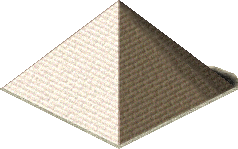
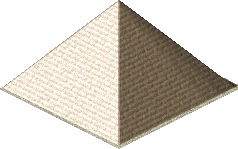
fix-test1 (#33)
* Update Android project files

* Android: try and fix apk

Also, do not include SDL2 project if using SDL3

* Minor asset tweak

* Fix the root cause of the android installer failing

* [New option] Wandering dogs (#1771)

---------

Pull request: fix-test1

Changed region(s): [[0.8529, 0.4295, 1.0, 0.5906], [0.8529, 0.5101, 0.8824, 0.5369], [0.5882, 0.1342, 0.6176, 0.1611]]

diff --git a/src/building/figure.c b/src/building/figure.c
@@ -37,8 +37,6 @@
 #include "map/water.h"
 #include "scenario/scenario.h"
 
-
-
 #define BEGGAR_UNEMPLOYMENT_THRESHOLD 6
 
 static struct {
@@ -222,21 +220,46 @@ static void spawn_plebian(building *b)
     }
 }
 
-static int spawn_patrician(building *b, int spawned)
+static void spawn_patrician(building *b)
 {
     map_point road;
     if (map_has_road_access(b->x, b->y, b->size, &road)) {
         b->figure_spawn_delay++;
-        if (b->figure_spawn_delay > 40 && !spawned) {
+        if (b->figure_spawn_delay > 16) {
             b->figure_spawn_delay = 0;
             figure *f = figure_create(FIGURE_PATRICIAN, road.x, road.y, DIR_4_BOTTOM);
             f->action_state = FIGURE_ACTION_125_ROAMING;
             f->building_id = b->id;
             figure_movement_init_roaming(f);
-            return 1;
         }
     }
-    return spawned;
+}
+
+static void spawn_dog(building *b)
+{
+    map_point road;
+    if (map_has_road_access(b->x, b->y, b->size, &road)) {
+        b->figure_spawn_delay++;
+        if (b->figure_spawn_delay > 16) {
+            b->figure_spawn_delay = 0;
+            // base spawn chance
+            int chance = 10;
+            // 1x1 (not merged) houses spawn 4x less
+            if (!b->house_is_merged) {
+                chance /= 4;
+                if (chance < 1) {
+                    chance = 1;
+                }
+            }
+            // random spawn check
+            if (rand() % 100 < chance) {
+                figure *f = figure_create(FIGURE_DOG, road.x, road.y, DIR_4_BOTTOM);
+                f->action_state = FIGURE_ACTION_125_ROAMING;
+                f->building_id = b->id;
+                figure_movement_init_roaming(f);
+            }
+        }
+    }
 }
 
 static void spawn_figure_warehouse(building *b)
@@ -2013,7 +2036,6 @@ static void update_native_crop_progress(building *b)
 
 void building_figure_generate(void)
 {
-    int patrician_generated = 0;
     calculate_houses_needed_per_beggar();
     for (int i = 1; i < building_count(); i++) {
         building *b = building_get(i);
@@ -2028,17 +2050,31 @@ void building_figure_generate(void)
 
         b->has_problem = 0;
         // range of building types
+
         if (b->type >= BUILDING_HOUSE_SMALL_TENT && b->type <= BUILDING_HOUSE_GRAND_INSULA) {
             if (!config_get(CONFIG_GP_CH_HOUSING_DO_NOT_SPAWN_PLEBIANS) &&
                 config_get(CONFIG_GP_CH_GLOBAL_LABOUR) && b->size && b->house_population) {
                 spawn_plebian(b);
             }
+        }
+
+        if (b->type >= BUILDING_HOUSE_SMALL_TENT && b->type <= BUILDING_HOUSE_GRAND_INSULA) {
             if (city_labor_unemployment_percentage() > BEGGAR_UNEMPLOYMENT_THRESHOLD) {
                 spawn_beggar(b);
             }
-        } else if (b->type >= BUILDING_HOUSE_SMALL_VILLA && b->type <= BUILDING_HOUSE_LUXURY_PALACE) {
-            patrician_generated = spawn_patrician(b, patrician_generated);
-        } else if (building_is_raw_resource_producer(b->type) ||
+        }
+
+        if (b->type >= BUILDING_HOUSE_SMALL_VILLA && b->type <= BUILDING_HOUSE_LUXURY_PALACE) {
+            spawn_patrician(b);
+        }
+
+        if (b->type >= BUILDING_HOUSE_SMALL_TENT && b->type <= BUILDING_HOUSE_LUXURY_PALACE) {
+            if (!config_get(CONFIG_GP_CH_HOUSING_DO_NOT_SPAWN_DOGS) && b->size && b->house_population) {
+                spawn_dog(b);
+            }
+        }
+
+        if (building_is_raw_resource_producer(b->type) ||
             building_is_farm(b->type) || building_is_workshop(b->type)) {
             spawn_figure_industry(b);
         } else if (b->type >= BUILDING_SENATE_1_UNUSED && b->type <= BUILDING_FORUM_2_UNUSED) {

diff --git a/src/platform/SDL3/augustus.c b/src/platform/SDL3/augustus.c
@@ -406,6 +406,23 @@ static bool handle_event_immediate(void *unused, SDL_Event *event)
         case SDL_EVENT_WILL_ENTER_BACKGROUND:
             platform_renderer_pause();
             return 0;
+        case SDL_EVENT_DID_ENTER_FOREGROUND:
+            platform_renderer_resume();
+            // fallthrough
+        case SDL_EVENT_RENDER_TARGETS_RESET:
+            platform_renderer_invalidate_target_textures();
+            window_invalidate();
+            return 0;
+        case SDL_EVENT_RENDER_DEVICE_RESET:
+            SDL_ShowSimpleMessageBox(SDL_MESSAGEBOX_WARNING,
+                "Render device lost",
+                "The rendering context was lost.The game will likely blackscreen.\n\n"
+                "Please restart the game to fix the issue.",
+                NULL);
+            return 0;
+        case SDL_EVENT_TERMINATING:
+            data.quit = 1;
+            return 0;
         default:
             return 1;
     }
@@ -414,20 +431,6 @@ static bool handle_event_immediate(void *unused, SDL_Event *event)
 static void handle_event(SDL_Event *event)
 {
     switch (event->type) {
-        case SDL_EVENT_DID_ENTER_FOREGROUND:
-            platform_renderer_resume();
-            // fallthrough
-        case SDL_EVENT_RENDER_TARGETS_RESET:
-            platform_renderer_invalidate_target_textures();
-            window_invalidate();
-            break;
-        case SDL_EVENT_RENDER_DEVICE_RESET:
-            SDL_ShowSimpleMessageBox(SDL_MESSAGEBOX_WARNING,
-                "Render device lost",
-                "The rendering context was lost.The game will likely blackscreen.\n\n"
-                "Please restart the game to fix the issue.",
-                NULL);
-            break;
         case SDL_EVENT_KEY_DOWN:
             platform_handle_key_down(&event->key);
             break;

diff --git a/src/figure/phrase.c b/src/figure/phrase.c
@@ -21,7 +21,7 @@
 
 #define SOUND_FILENAME_MAX 64
 
-static const char FIGURE_SOUNDS[33][20][SOUND_FILENAME_MAX] = {
+static const char FIGURE_SOUNDS[34][20][SOUND_FILENAME_MAX] = {
     { // 0
         "wavs/vigils_starv1.wav", "wavs/vigils_nojob1.wav", "wavs/vigils_needjob1.wav", "wavs/vigils_nofun1.wav",
         "wavs/vigils_relig1.wav", "wavs/vigils_great1.wav", "wavs/vigils_great2.wav", "wavs/vigils_exact1.wav",
@@ -252,7 +252,14 @@ static const char FIGURE_SOUNDS[33][20][SOUND_FILENAME_MAX] = {
         "wavs/ox_exact2.wav", "wavs/ox_exact3.wav", "wavs/ox_exact4.wav", "wavs/ox_exact5.wav",
         "wavs/ox_exact6.wav", "wavs/ox_exact7.wav", "wavs/ox_exact8.wav", "wavs/ox_exact9.wav",
         "wavs/ox_exact0.wav", "wavs/ox_free1.wav", "wavs/ox_free2.wav", "wavs/ox_free3.wav"
-    }
+    },
+    { // 33 FIGURE_DOG = 98
+        "wavs/dog_starv1.wav", "wavs/dog_nojob1.wav", "wavs/dog_needjob1.wav", "wavs/dog_nofun1.wav",
+        "wavs/dog_relig1.wav", "wavs/dog_great1.wav", "wavs/dog_great2.wav", ASSETS_DIRECTORY "/Sounds/Dog_Bark.ogg",
+        "wavs/dog_exact2.wav", "wavs/dog_exact3.wav", "wavs/dog_exact4.wav", "wavs/dog_exact5.wav",
+        "wavs/dog_exact6.wav", "wavs/dog_exact7.wav", "wavs/dog_exact8.wav", "wavs/dog_exact9.wav",
+        "wavs/dog_exact0.wav", "wavs/dog_free1.wav", "wavs/dog_free2.wav", "wavs/dog_free3.wav"
+    },
 };
 
 static const int FIGURE_TYPE_TO_SOUND_TYPE[] = {
@@ -265,7 +272,7 @@ static const int FIGURE_TYPE_TO_SOUND_TYPE[] = {
     -1, -1, -1, -1, 30, -1, 31, -1, -1, -1, // 60-69
     -1, -1, -1, 19, 19, 2, 1, 19, 8, 11,  // 70-79
     11, -1, 1, -1, -1, 19, 20, 20, 19, 19,  // 80-89
-    19, 32, -1, 22, 25, -1, -1, 19, -1, -1, // 90-99
+    19, 32, -1, 22, 25, -1, -1, 19, 33, -1, // 90-99
 };
 
 enum {
@@ -444,6 +451,14 @@ static int missionary_phrase(figure *f)
 }
 
 static int ox_phrase(figure *f)
+{
+    if (++f->phrase_sequence_exact >= 1) {
+        f->phrase_sequence_exact = 0;
+    }
+    return 7 + f->phrase_sequence_exact;
+}
+
+static int dog_phrase(figure *f)
 {
     if (++f->phrase_sequence_exact >= 1) {
         f->phrase_sequence_exact = 0;
@@ -669,6 +684,8 @@ static int phrase_based_on_figure_state(figure *f)
             return missionary_phrase(f);
         case FIGURE_DEPOT_CART_PUSHER:
             return ox_phrase(f);
+        case FIGURE_DOG:
+            return dog_phrase(f);
         case FIGURE_HOMELESS:
             return homeless_phrase(f);
         case FIGURE_IMMIGRANT:

diff --git a/src/figuretype/service.c b/src/figuretype/service.c
@@ -441,6 +441,19 @@ void figure_plebian_action(figure *f)
     figure_image_update(f, image_group(GROUP_FIGURE_LABOR_SEEKER));
 }
 
+void figure_dog_action(figure *f)
+{
+    f->terrain_usage = TERRAIN_USAGE_ROADS;
+    f->use_cross_country = 0;
+    f->max_roam_length = 384;
+    if (building_get(f->building_id)->state != BUILDING_STATE_IN_USE) {
+        f->state = FIGURE_STATE_DEAD;
+    }
+    figure_image_increase_offset(f, 8);
+    roamer_action(f, 1);
+    int dir = figure_image_normalize_direction(f->direction < 8 ? f->direction : f->previous_tile_direction);
+    f->image_id = assets_get_image_id("Walkers", "dog_walk_ne_01") + dir * 8 + f->image_offset;
+}
 
 void figure_labor_seeker_action(figure *f)
 {

diff --git a/src/window/building/figures.c b/src/window/building/figures.c
@@ -57,7 +57,7 @@ static const int NEW_FIGURE_TYPES[] = {
     TR_FIGURE_TYPE_WATCHMAN, 0, 0, TR_FIGURE_TYPE_CARAVANSERAI_SUPPLIER, TR_FIGURE_TYPE_ROBBER,
     TR_FIGURE_TYPE_LOOTER, TR_FIGURE_TYPE_CARAVANSERAI_COLLECTOR, TR_FIGURE_TYPE_LIGHTHOUSE_SUPPLIER,
     TR_FIGURE_TYPE_MESS_HALL_COLLECTOR, 0, TR_BUILDING_FORT_AUXILIA_INFANTRY, TR_FIGURE_TYPE_BEGGAR,
-    TR_BUILDING_FORT_ARCHERS, TR_FIGURE_ENEMY_CATAPULT, 0, TR_FIGURE_TYPE_PLEBIAN, 0
+    TR_BUILDING_FORT_ARCHERS, TR_FIGURE_ENEMY_CATAPULT, 0, TR_FIGURE_TYPE_PLEBIAN, TR_FIGURE_TYPE_DOG, 0
 };
 
 static generic_button figure_buttons[] = {
@@ -128,6 +128,8 @@ static int big_people_image(figure_type type)
             return assets_get_image_id("Warriors", "auxarch_portrait");
         case FIGURE_ENEMY_CATAPULT:
             return assets_get_image_id("Warriors", "catapult_portrait");
+        case FIGURE_DOG:
+            return assets_get_image_id("Walkers", "dog_portrait");
         default:
             break;
     }
@@ -384,7 +386,11 @@ static void draw_enemy(building_info_context *c, figure *f)
 static void draw_animal(building_info_context *c, figure *f)
 {
     image_draw(big_people_image(f->type), c->x_offset + 28, c->y_offset + 112, COLOR_MASK_NONE, SCALE_NONE);
-    lang_text_draw(64, f->type, c->x_offset + 92, c->y_offset + 139, FONT_NORMAL_BROWN);
+    if (f->type == FIGURE_DOG) {
+        text_draw(translation_for(TR_FIGURE_TYPE_DOG), c->x_offset + 92, c->y_offset + 139, FONT_NORMAL_BROWN, 0);
+    } else {
+        lang_text_draw(64, f->type, c->x_offset + 92, c->y_offset + 139, FONT_NORMAL_BROWN);
+    }
 }
 
 static void draw_boat(building_info_context *c, figure *f)
@@ -664,7 +670,7 @@ static void draw_figure_info(building_info_context *c, int figure_id)
         draw_enemy(c, f);
     } else if (type == FIGURE_FISHING_BOAT) {
         draw_boat(c, f);
-    } else if (type == FIGURE_SHIPWRECK || figure_is_herd(f)) {
+    } else if (type == FIGURE_SHIPWRECK || figure_is_herd(f) || type == FIGURE_DOG) {
         draw_animal(c, f);
     } else if (type == FIGURE_CART_PUSHER || type == FIGURE_WAREHOUSEMAN || type == FIGURE_DOCKER) {
         draw_cartpusher(c, f);

diff --git a/src/figure/properties.c b/src/figure/properties.c
@@ -491,6 +491,11 @@ static const figure_properties properties[FIGURE_TYPE_MAX] = {
     .max_damage = 10, .attack_value = 0, .defense_value = 0,
     .missile_defense_value = 0, .missile_attack_value = 0, .missile_delay = 0
     },
+    [FIGURE_DOG] = {
+    .category = FIGURE_CATEGORY_CITIZEN,
+    .max_damage = 10, .attack_value = 0, .defense_value = 0,
+    .missile_defense_value = 0, .missile_attack_value = 0, .missile_delay = 0
+    },
 };
 
 const figure_properties *figure_properties_for_type(figure_type type)

diff --git a/src/game/save_version.h b/src/game/save_version.h
@@ -44,7 +44,7 @@ If you are unsure about anything regarding the savegame versioning, please ask o
 
 typedef enum {
 
-    SAVE_GAME_CURRENT_VERSION = 0xb0,
+    SAVE_GAME_CURRENT_VERSION = 0xb1,
 
     SAVE_GAME_LAST_ORIGINAL_LIMITS_VERSION = 0x66,
     SAVE_GAME_LAST_SMALLER_IMAGE_ID_VERSION = 0x76,
@@ -100,7 +100,8 @@ typedef enum {
     SAVE_GAME_LAST_LIMITED_ROUTE_COST = 0xac,
     SAVE_GAME_LAST_NO_WATER_IN_ADVISORS = 0xad,
     SAVE_GAME_LAST_NO_SHARED_BUILDINGS = 0xae,
-    SAVE_GAME_LAST_NO_PLEBIANS = 0xaf
+    SAVE_GAME_LAST_NO_PLEBIANS = 0xaf,
+    SAVE_GAME_LAST_NO_DOG = 0xb0,
 } savegame_version_t;
 
 typedef enum {

diff --git a/src/figure/combat.c b/src/figure/combat.c
@@ -241,6 +241,7 @@ int figure_combat_get_target_for_wolf(int x, int y, int max_distance)
             case FIGURE_FRIENDLY_ARROW:
             case FIGURE_WATCHTOWER_ARCHER:
             case FIGURE_CREATURE:
+            case FIGURE_DOG:
                 continue;
         }
         if (figure_is_herd(f)) {
@@ -381,6 +382,7 @@ int figure_combat_get_missile_target_for_enemy(figure *enemy, int max_distance, 
             case FIGURE_WOLF:
             case FIGURE_ZEBRA:
             case FIGURE_SPEAR:
+            case FIGURE_DOG:
                 continue;
         }
         int distance;
@@ -437,7 +439,7 @@ void figure_combat_attack_figure_at(figure *f, int grid_offset)
             break;
         }
         figure *opponent = figure_get(opponent_id);
-        if (opponent_id == f->id || opponent->is_ghost) {
+        if (opponent_id == f->id || opponent->is_ghost || opponent->type == FIGURE_DOG) {
             // Do not allow troops to attack themselves or enemies located outside of the map
             opponent_id = opponent->next_figure_id_on_same_tile;
             continue;

diff --git a/src/figure/type.h b/src/figure/type.h
@@ -109,7 +109,8 @@ typedef enum {
     FIGURE_ENEMY_CATAPULT = 95,
     FIGURE_CATAPULT_MISSILE = 96,
     FIGURE_PLEBIAN = 97,
-    FIGURE_TYPE_MAX = 98
+    FIGURE_DOG = 98,
+    FIGURE_TYPE_MAX = 99
 } figure_type;
 
 typedef enum {

diff --git a/src/figuretype/service.h b/src/figuretype/service.h
@@ -27,6 +27,8 @@ void figure_patrician_action(figure *f);
 
 void figure_plebian_action(figure *f);
 
+void figure_dog_action(figure *f);
+
 void figure_labor_seeker_action(figure *f);
 
 void figure_market_trader_action(figure *f);

diff --git a/src/translation/english.c b/src/translation/english.c
@@ -2084,6 +2084,8 @@ static translation_string all_strings[] = {
     {TR_WINDOW_ADVISOR_EPITHETS_TOOLTIP_PANTHEON, "Pantheon divine powers"},
     {TR_FIGURE_TYPE_PLEBIAN, "Plebeian"},
     {TR_CONFIG_GP_CH_HOUSING_DO_NOT_SPAWN_PLEBIANS, "Houses do not spawn aimless wandering plebeians"},
+    {TR_FIGURE_TYPE_DOG, "Dog"},
+    {TR_CONFIG_GP_CH_HOUSING_DO_NOT_SPAWN_DOGS, "Houses do not spawn wandering dogs"},
     {TR_BUILDING_DEPOTS, "Cart depots"},
     {TR_DESTRIBUTION_SOURCE, "used as source: "},
     {TR_DESTRIBUTION_DESTINATION, "used as destination: "},

diff --git a/src/translation/russian.c b/src/translation/russian.c
@@ -2084,6 +2084,8 @@ static translation_string all_strings[] = {
     {TR_WINDOW_ADVISOR_EPITHETS_TOOLTIP_PANTHEON, "Дары Пантеона"},
     {TR_FIGURE_TYPE_PLEBIAN, "Плебей"},
     {TR_CONFIG_GP_CH_HOUSING_DO_NOT_SPAWN_PLEBIANS, "Дома не создают бесцельно блуждающих плебеев"},
+    {TR_FIGURE_TYPE_DOG, "Собака"},
+    {TR_CONFIG_GP_CH_HOUSING_DO_NOT_SPAWN_DOGS, "Дома не создают блуждающих собак"},
     {TR_BUILDING_DEPOTS, "Станции повозок"},
     {TR_DESTRIBUTION_SOURCE, "используют как источник: "},
     {TR_DESTRIBUTION_DESTINATION, "используют как назначение: "},